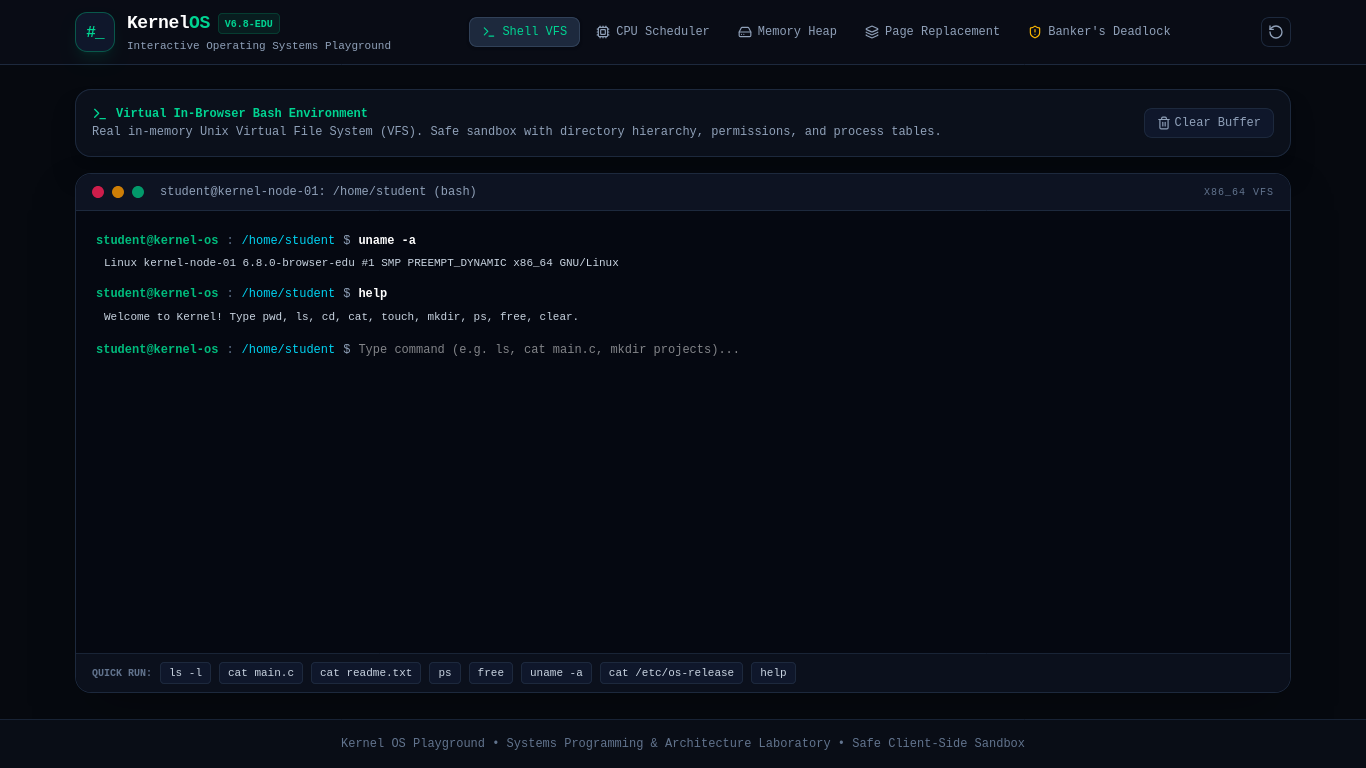
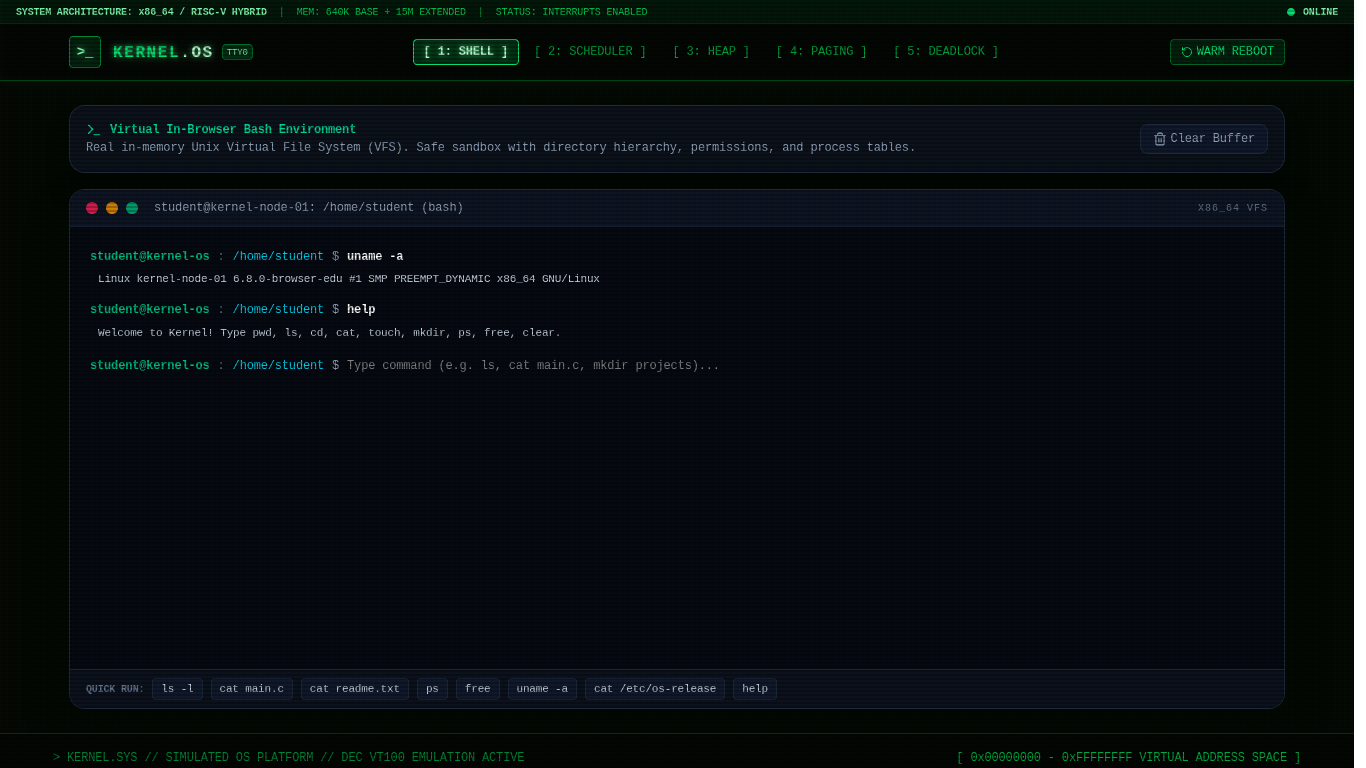
style(kernel): radical redesign to retro phosphor CRT green terminal

diff --git a/src/components/layout/Navbar.tsx b/src/components/layout/Navbar.tsx
@@ -7,8 +7,8 @@ import {
   Layers, 
   ShieldAlert, 
   RotateCcw,
-  Sparkles,
-  Binary
+  Activity,
+  TerminalSquare
 } from 'lucide-react';
 
 export const Navbar: React.FC = () => {
@@ -16,141 +16,137 @@ export const Navbar: React.FC = () => {
   const [showResetConfirm, setShowResetConfirm] = useState(false);
 
   return (
-    <header className="border-b border-slate-800 bg-[#090D16]/95 backdrop-blur sticky top-0 z-40">
+    <header className="border-b border-green-500/30 bg-[#020502] sticky top-0 z-40 phosphor-border">
+      {/* Top BIOS Banner */}
+      <div className="bg-green-950/40 border-b border-green-500/20 px-4 py-1 text-[10px] font-mono text-green-400 flex items-center justify-between">
+        <div className="flex items-center space-x-3">
+          <span className="font-bold text-green-300">SYSTEM ARCHITECTURE: x86_64 / RISC-V HYBRID</span>
+          <span className="hidden sm:inline text-green-600">|</span>
+          <span className="hidden sm:inline text-green-500">MEM: 640K BASE + 15M EXTENDED</span>
+          <span className="hidden md:inline text-green-600">|</span>
+          <span className="hidden md:inline text-green-500">STATUS: INTERRUPTS ENABLED</span>
+        </div>
+        <div className="flex items-center space-x-2">
+          <span className="w-2 h-2 rounded-full bg-green-400 animate-ping inline-block" />
+          <span className="text-green-300 font-bold">ONLINE</span>
+        </div>
+      </div>
+
       <div className="max-w-7xl mx-auto px-4 sm:px-6 lg:px-8">
-        <div className="flex items-center justify-between h-16">
+        <div className="flex items-center justify-between h-14">
           {/* Brand */}
-          <div className="flex items-center space-x-3 cursor-pointer" onClick={() => setActiveTab('terminal')}>
-            <div className="w-10 h-10 rounded-xl bg-slate-900 border border-emerald-500/40 flex items-center justify-center shadow-lg shadow-emerald-500/10">
-              <span className="font-mono text-emerald-400 font-bold text-base tracking-tighter">#_</span>
+          <div 
+            className="flex items-center space-x-3 cursor-pointer" 
+            onClick={() => setActiveTab('terminal')}
+          >
+            <div className="w-8 h-8 rounded border border-green-500/60 bg-green-950/60 flex items-center justify-center font-mono text-green-300 font-bold text-sm phosphor-glow">
+              &gt;_
             </div>
             <div>
               <div className="flex items-center space-x-2">
-                <span className="font-bold text-lg tracking-tight text-white font-mono">Kernel<span className="text-emerald-400">OS</span></span>
-                <span className="text-[10px] font-semibold uppercase px-1.5 py-0.5 rounded bg-emerald-500/10 text-emerald-400 border border-emerald-500/20 font-mono">
-                  v6.8-EDU
+                <span className="font-bold text-base tracking-widest text-green-400 font-mono phosphor-glow">
+                  KERNEL<span className="text-green-200">.OS</span>
+                </span>
+                <span className="text-[9px] uppercase px-1 py-0.2 rounded bg-green-500/20 text-green-300 border border-green-500/40 font-mono">
+                  TTY0
                 </span>
               </div>
-              <p className="text-[11px] text-slate-400 hidden sm:block">Interactive Operating Systems Playground</p>
             </div>
           </div>
 
-          {/* Nav Tabs */}
-          <nav className="hidden md:flex items-center space-x-1">
+          {/* Retro Bracket Nav */}
+          <nav className="flex items-center space-x-1 font-mono text-xs">
             <button
               onClick={() => setActiveTab('terminal')}
-              className={`px-3 py-1.5 rounded-lg text-xs font-mono font-medium flex items-center space-x-1.5 transition-all ${
+              className={`px-2.5 py-1 rounded border transition-all ${
                 activeTab === 'terminal'
-                  ? 'bg-slate-800 text-emerald-400 border border-slate-700 shadow-sm'
-                  : 'text-slate-400 hover:text-white hover:bg-slate-800/50'
+                  ? 'bg-green-500/20 text-green-200 border-green-400 phosphor-glow font-bold'
+                  : 'text-green-600 border-transparent hover:text-green-400 hover:border-green-800'
               }`}
             >
-              <Terminal className="w-3.5 h-3.5" />
-              <span>Shell VFS</span>
+              [ 1: SHELL ]
             </button>
 
             <button
               onClick={() => setActiveTab('scheduler')}
-              className={`px-3 py-1.5 rounded-lg text-xs font-mono font-medium flex items-center space-x-1.5 transition-all ${
+              className={`px-2.5 py-1 rounded border transition-all ${
                 activeTab === 'scheduler'
-                  ? 'bg-slate-800 text-emerald-400 border border-slate-700 shadow-sm'
-                  : 'text-slate-400 hover:text-white hover:bg-slate-800/50'
+                  ? 'bg-green-500/20 text-green-200 border-green-400 phosphor-glow font-bold'
+                  : 'text-green-600 border-transparent hover:text-green-400 hover:border-green-800'
               }`}
             >
-              <Cpu className="w-3.5 h-3.5" />
-              <span>CPU Scheduler</span>
+              [ 2: SCHEDULER ]
             </button>
 
             <button
               onClick={() => setActiveTab('memory')}
-              className={`px-3 py-1.5 rounded-lg text-xs font-mono font-medium flex items-center space-x-1.5 transition-all ${
+              className={`px-2.5 py-1 rounded border transition-all ${
                 activeTab === 'memory'
-                  ? 'bg-slate-800 text-emerald-400 border border-slate-700 shadow-sm'
-                  : 'text-slate-400 hover:text-white hover:bg-slate-800/50'
+                  ? 'bg-green-500/20 text-green-200 border-green-400 phosphor-glow font-bold'
+                  : 'text-green-600 border-transparent hover:text-green-400 hover:border-green-800'
               }`}
             >
-              <HardDrive className="w-3.5 h-3.5" />
-              <span>Memory Heap</span>
+              [ 3: HEAP ]
             </button>
 
             <button
               onClick={() => setActiveTab('paging')}
-              className={`px-3 py-1.5 rounded-lg text-xs font-mono font-medium flex items-center space-x-1.5 transition-all ${
+              className={`px-2.5 py-1 rounded border transition-all ${
                 activeTab === 'paging'
-                  ? 'bg-slate-800 text-emerald-400 border border-slate-700 shadow-sm'
-                  : 'text-slate-400 hover:text-white hover:bg-slate-800/50'
+                  ? 'bg-green-500/20 text-green-200 border-green-400 phosphor-glow font-bold'
+                  : 'text-green-600 border-transparent hover:text-green-400 hover:border-green-800'
               }`}
             >
-              <Layers className="w-3.5 h-3.5" />
-              <span>Page Replacement</span>
+              [ 4: PAGING ]
             </button>
 
             <button
               onClick={() => setActiveTab('deadlock')}
-              className={`px-3 py-1.5 rounded-lg text-xs font-mono font-medium flex items-center space-x-1.5 transition-all ${
+              className={`px-2.5 py-1 rounded border transition-all ${
                 activeTab === 'deadlock'
-                  ? 'bg-slate-800 text-emerald-400 border border-slate-700 shadow-sm'
-                  : 'text-slate-400 hover:text-white hover:bg-slate-800/50'
+                  ? 'bg-green-500/20 text-green-200 border-green-400 phosphor-glow font-bold'
+                  : 'text-green-600 border-transparent hover:text-green-400 hover:border-green-800'
               }`}
             >
-              <ShieldAlert className="w-3.5 h-3.5 text-amber-400" />
-              <span>Banker's Deadlock</span>
+              [ 5: DEADLOCK ]
             </button>
           </nav>
 
-          {/* Reset Demo Data */}
+          {/* Reset */}
           <div className="flex items-center space-x-2">
             <button
               onClick={() => setShowResetConfirm(true)}
-              className="p-1.5 text-slate-400 hover:text-slate-200 hover:bg-slate-800 rounded-lg border border-slate-800 transition-colors"
-              title="Reset Sandbox"
+              className="px-2.5 py-1 rounded bg-green-950/60 hover:bg-green-900 border border-green-600/50 text-green-400 text-xs font-mono transition-all flex items-center space-x-1"
             >
-              <RotateCcw className="w-4 h-4" />
+              <RotateCcw className="w-3 h-3" />
+              <span className="hidden sm:inline">WARM REBOOT</span>
             </button>
           </div>
-        </div>
-
-        {/* Mobile Nav */}
-        <div className="flex md:hidden overflow-x-auto py-2 space-x-1 border-t border-slate-800/80 font-mono">
-          {(['terminal', 'scheduler', 'memory', 'paging', 'deadlock'] as const).map((tab) => (
-            <button
-              key={tab}
-              onClick={() => setActiveTab(tab)}
-              className={`px-2.5 py-1 rounded text-xs whitespace-nowrap capitalize ${
-                activeTab === tab ? 'bg-emerald-500/20 text-emerald-400 border border-emerald-500/30' : 'text-slate-400'
-              }`}
-            >
-              {tab}
-            </button>
-          ))}
         </div>
       </div>
 
       {showResetConfirm && (
-        <div className="fixed inset-0 z-50 bg-black/70 backdrop-blur-sm flex items-center justify-center p-4">
-          <div className="bg-[#0f172a] border border-slate-700 rounded-2xl max-w-sm w-full p-5 shadow-2xl">
-            <div className="flex items-center space-x-3 text-emerald-400 mb-3">
-              <RotateCcw className="w-6 h-6" />
-              <h3 className="font-semibold text-white text-base">Reset Kernel Sandbox?</h3>
-            </div>
-            <p className="text-xs text-slate-300 mb-4 leading-relaxed font-sans">
-              This will restore the virtual filesystem, reset process queues, empty the memory heap, and reseed default Banker's matrices.
+        <div className="fixed inset-0 z-50 bg-black/85 backdrop-blur-xs flex items-center justify-center p-4">
+          <div className="bg-[#050e05] border-2 border-green-500 p-6 max-w-sm w-full font-mono text-green-400 phosphor-border">
+            <h3 className="text-sm font-bold uppercase text-green-300">&gt;&gt;&gt; SYSTEM REBOOT WARNING &lt;&lt;&lt;</h3>
+            <p className="text-xs text-green-600 mt-2">
+              All volatile memory pages, scheduler queues, and VFS buffers will be flushed to cold initial state.
             </p>
-            <div className="flex justify-end space-x-2">
+            <div className="mt-4 flex justify-end space-x-2 text-xs">
               <button
                 onClick={() => setShowResetConfirm(false)}
-                className="px-3 py-1.5 rounded-lg text-xs font-medium text-slate-300 hover:bg-slate-800"
+                className="px-3 py-1 border border-green-800 text-green-600 hover:text-green-400"
               >
-                Cancel
+                ABORT
               </button>
               <button
                 onClick={() => {
                   resetAll();
                   setShowResetConfirm(false);
                 }}
-                className="px-3 py-1.5 rounded-lg text-xs font-medium bg-emerald-600 hover:bg-emerald-500 text-white font-semibold"
+                className="px-3 py-1 bg-green-600 text-black font-bold hover:bg-green-500"
               >
-                Reset Sandbox
+                CONFIRM REBOOT
               </button>
             </div>
           </div>

diff --git a/src/App.tsx b/src/App.tsx
@@ -1,20 +1,23 @@
 import React from 'react';
-import { useKernelStore } from './store/useKernelStore';
 import { Navbar } from './components/layout/Navbar';
 import { VirtualTerminal } from './components/terminal/VirtualTerminal';
 import { CpuSchedulerLab } from './components/scheduler/CpuSchedulerLab';
 import { MemoryLab } from './components/memory/MemoryLab';
 import { PagingLab } from './components/paging/PagingLab';
 import { DeadlockLab } from './components/deadlock/DeadlockLab';
+import { useKernelStore } from './store/useKernelStore';
 
 export const App: React.FC = () => {
   const { activeTab } = useKernelStore();
 
   return (
-    <div className="min-h-screen bg-[#06090F] text-slate-100 flex flex-col font-mono selection:bg-emerald-500/30 selection:text-emerald-300">
+    <div className="min-h-screen bg-[#030803] text-green-400 font-mono flex flex-col relative selection:bg-green-500 selection:text-black">
+      {/* Scanline CRT overlay */}
+      <div className="fixed inset-0 crt-overlay z-50 pointer-events-none opacity-60" />
+
       <Navbar />
 
-      <main className="flex-1 max-w-7xl w-full mx-auto px-4 sm:px-6 lg:px-8 py-6">
+      <main className="flex-1 max-w-7xl w-full mx-auto px-4 sm:px-6 lg:px-8 py-6 relative z-10">
         {activeTab === 'terminal' && <VirtualTerminal />}
         {activeTab === 'scheduler' && <CpuSchedulerLab />}
         {activeTab === 'memory' && <MemoryLab />}
@@ -22,8 +25,11 @@ export const App: React.FC = () => {
         {activeTab === 'deadlock' && <DeadlockLab />}
       </main>
 
-      <footer className="border-t border-slate-800/80 bg-[#090D16] py-4 text-center text-xs text-slate-500 font-mono">
-        <p>Kernel OS Playground • Systems Programming & Architecture Laboratory • Safe Client-Side Sandbox</p>
+      <footer className="border-t border-green-950 bg-[#020502] py-4 text-center text-xs text-green-700 relative z-10 font-mono">
+        <div className="max-w-7xl mx-auto px-4 flex flex-col sm:flex-row items-center justify-between gap-2">
+          <p>&gt; KERNEL.SYS // SIMULATED OS PLATFORM // DEC VT100 EMULATION ACTIVE</p>
+          <p className="text-green-600">[ 0x00000000 - 0xFFFFFFFF VIRTUAL ADDRESS SPACE ]</p>
+        </div>
       </footer>
     </div>
   );

diff --git a/src/index.css b/src/index.css
@@ -2,22 +2,33 @@
 
 @layer base {
   body {
-    font-family: 'JetBrains Mono', monospace;
+    background-color: #030803;
+    color: #4ade80;
+    font-family: 'JetBrains Mono', 'Courier New', Courier, monospace;
+    letter-spacing: -0.01em;
   }
-}
 
-/* Custom scrollbars */
-::-webkit-scrollbar {
-  width: 6px;
-  height: 6px;
-}
-::-webkit-scrollbar-track {
-  background: #090e17;
-}
-::-webkit-scrollbar-thumb {
-  background: #1e293b;
-  border-radius: 3px;
-}
-::-webkit-scrollbar-thumb:hover {
-  background: #334155;
+  /* Scanline effect */
+  .crt-overlay {
+    background: linear-gradient(
+      rgba(18, 16, 16, 0) 50%, 
+      rgba(0, 0, 0, 0.4) 50%
+    ), linear-gradient(
+      90deg,
+      rgba(255, 0, 0, 0.03),
+      rgba(0, 255, 0, 0.02),
+      rgba(0, 0, 255, 0.03)
+    );
+    background-size: 100% 4px, 6px 100%;
+    pointer-events: none;
+  }
+
+  .phosphor-glow {
+    text-shadow: 0 0 6px rgba(74, 222, 128, 0.6), 0 0 12px rgba(34, 197, 94, 0.3);
+  }
+
+  .phosphor-border {
+    border-color: rgba(34, 197, 94, 0.3);
+    box-shadow: 0 0 10px rgba(34, 197, 94, 0.1), inset 0 0 10px rgba(34, 197, 94, 0.05);
+  }
 }
